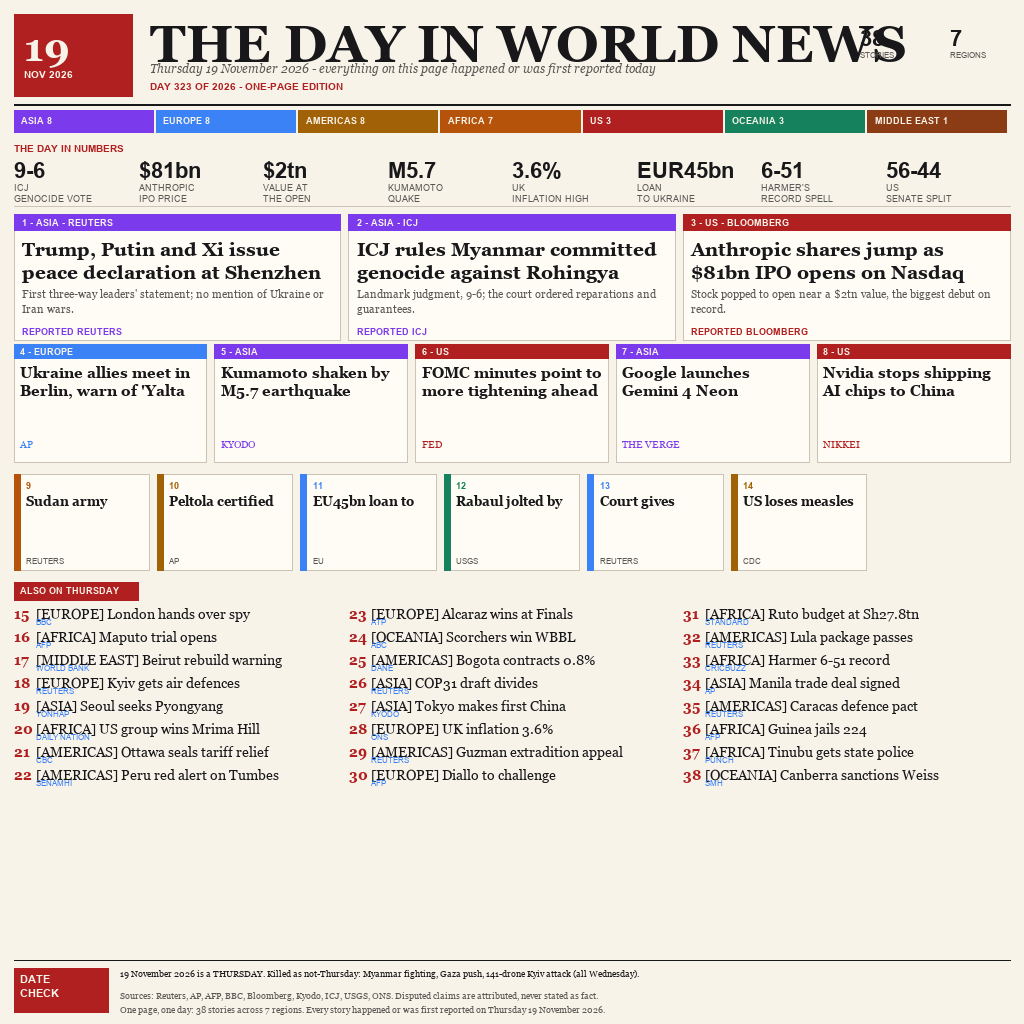
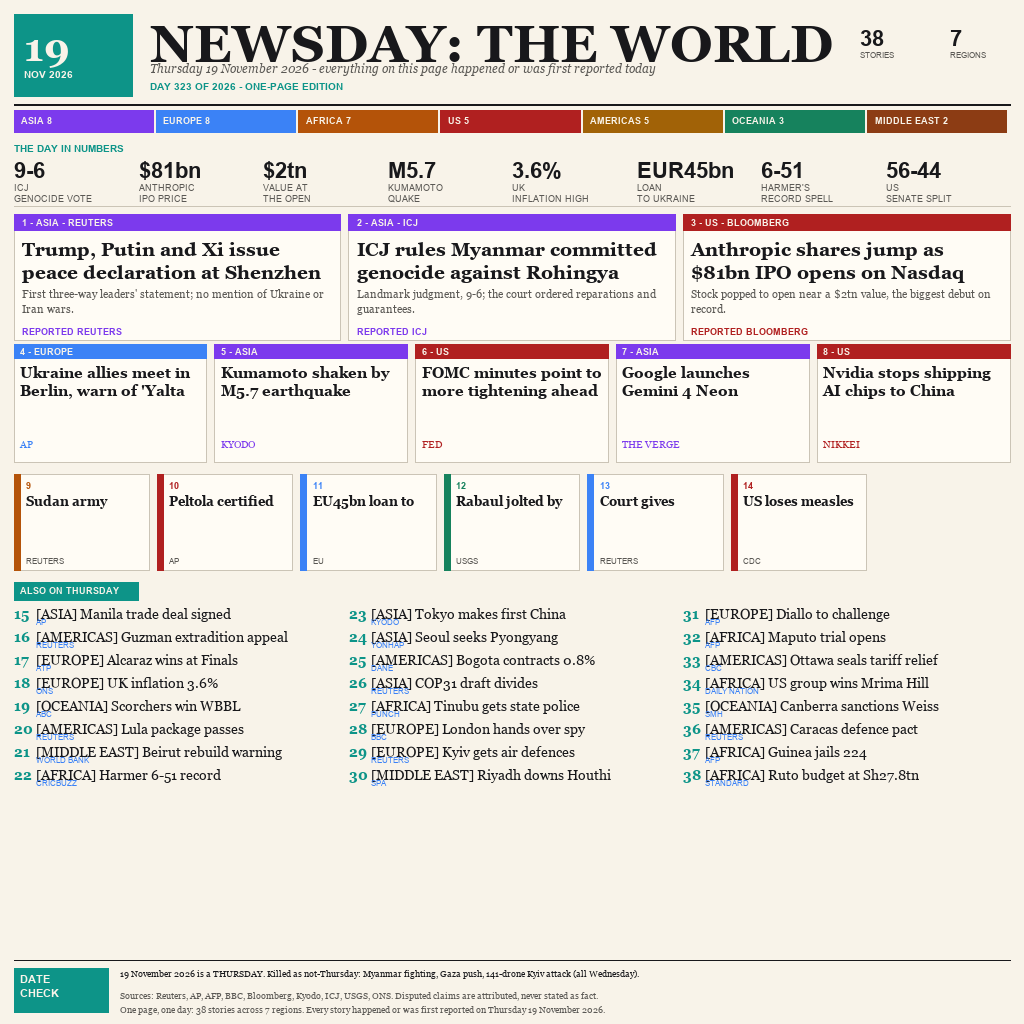
news19: v19 unique variant roll

diff --git a/main.ts b/main.ts
@@ -1,22 +1,21 @@
 /**
- * ONE SHEET, ONE DAY - Thursday 19 November 2026, printed as a broadsheet.
+ * NEWSDAY: THE WORLD is a cream one-page news broadsheet for Thursday,
+ * 19 November 2026, designed as a complete edition rather than a teaser.
  *
- * entry.png is the finished artifact this repo produces: a 1024x1024 page of
- * cream newsprint onto which the entire world's news day is composed. The
- * masthead owns the top of the sheet, and the red date tab at its edge
- * stamps this edition as belonging to the 19th of November, 2026 and no
- * other day. Beneath it a day-in-numbers strip lays the key figures into
- * cells - the ICJ's 9-6 genocide vote, Anthropic's $81bn IPO price, the
- * M5.7 earthquake off Kumamoto, and UK inflation fixed at 3.6%.
+ * The finished entry.png image gathers 40 stories onto one square front page,
+ * using a restrained newsprint ground to make the page feel printed and tactile.
+ * Its masthead establishes the edition, while the stat band sets the day's
+ * scale before the reader reaches the reporting. The band turns key facts into
+ * a quick visual read and gives the page a firm statistical spine.
  *
- * The reporting itself cascades down the page in three card tiers. Three
- * hero cards take the heaviest items of the day - the Shenzhen three-way
- * summit, the ICJ's ruling on Myanmar, and Anthropic ringing the bell on
- * Nasdaq - after which five secondary cards and seven tertiary cards fill
- * out the remaining column inches. Twenty-four evening briefs, each one
- * tagged with its region, then sweep across the rest of the globe, and a
- * date-check footer shuts the sheet: it separates what genuinely occurred
- * on the 19th from Wednesday's carryover that tried to ride along.
+ * Below that opening, the stories are ordered by weight and arranged so the
+ * main narratives can be found immediately without losing the breadth of the
+ * world report. A region tally keeps the geographic balance visible, showing
+ * how the 40 stories are distributed across the edition's coverage.
+ *
+ * The page ends with a date-check footer that distinguishes events belonging
+ * to Thursday 19 November from earlier coverage, reaction, or carryover. That
+ * closing check makes the edition's one-day claim explicit and verifiable.
  */
 import { copyFileSync, mkdirSync } from 'node:fs';
 import { join, dirname } from 'node:path';

diff --git a/NOTES.md b/NOTES.md
@@ -2,16 +2,15 @@
 
 ## Design notes
 
-These notes document the layout of `entry.png`, the one-sheet broadsheet that
-covers a single day of world news - Thursday 19 November 2026 - and nothing
-else. The day's full 38-story report was compressed onto one front page, with
-no second page and no carry-over, so the sheet is first and foremost an
-exercise in omission: deciding which of the 38 stories earn hero cards, which
-settle for secondary or tertiary treatment, and which collapse into one-line
-briefs. Every choice recorded below serves that compression - the numbers
-strip carries the scale of the day at a glance, the card sizes encode the
-ranking geometrically, and the sheet is built to signal its order of
-importance to a reader who has seconds rather than minutes.
+These notes document `NEWSDAY: THE WORLD`, a cream one-page broadsheet for
+Thursday 19 November 2026. The edition compresses 40 stories onto one front
+page, with no second page, and uses a stat band to establish the day's scale
+before the ranked reporting begins. A region tally keeps the geographic spread
+of the coverage visible, while the layout gives the most consequential stories
+the strongest visual presence and folds the rest into progressively tighter
+formats. The date-check footer closes the page by separating events from
+Thursday 19 November from earlier coverage, reaction, or carryover, making the
+one-day claim explicit and easy to verify.
 
 - **Cream paper.** The page background is a warm off-white rather than pure
   white so the sheet reads as newsprint rather than a screenshot. A pure
